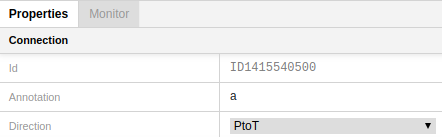
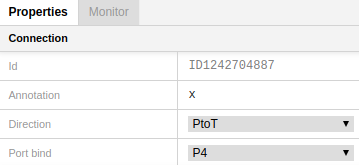
new changes

diff --git a/cpn-ide-docs/docs/editor_view.md b/cpn-ide-docs/docs/editor_view.md
@@ -14,7 +14,7 @@ To load a net, click on **Open project** and select the desired net.
 
 ## Tools
 
-#### Creating objects
+### Creating objects
 One of the instruments for creating net objects is the mouse right-click button menu. You can bring it up by clicking the right mouse button in the editor area.
 
 ![Screenshot](img/mouse-menu.png)
@@ -33,20 +33,24 @@ To create an **arc**:
 - select the arrow icon
 - draw the arc to the object you wish to connect to.
 
-#### Creating new subpage
+### Creating new subpage
 When a CP-net uses a substitution transition the logic that the transition represents must be kept somewhere. It is kept on a page called a **subpage**.
 A page that contains a substitution transition is called a **superpage**. 
 
-To create a **new subpage**, select the corresponding option in the menu
+To create a **new subpage**, select the corresponding option in the right-click menu. A new page is created. It is set as a subpage in the Project Tree panel.
 
 ![Screenshot](img/mouse-menu.png)
 
-The subpage created has a corresponding mark, it looks like this:
+The subpage has a mark, it looks like this:
 
-![Screenshot](img/subpage.png)
+![Screenshot](img/subpage3.png)
 
-#### Moving selected objects to subpage
-If you need to make a group of objects to be the objects of a subpage, use the menu:
+To connect a subpage to other objects of the net, use arcs.
+
+
+#### Creating diagram on subpage
+
+Having made a subpage, create new objects on it. You can also move already existing objects from the superpage to the subpage. To move a group of existing objects, use the menu:
 
 ![Screenshot](img/lasso.png)
 
@@ -54,8 +58,39 @@ If you need to make a group of objects to be the objects of a subpage, use the m
 - Select objects to be replaced to the subpage by drawing the lasso with the pointer
 - Press the icon in the middle ("Move selected objects to subpage")
 
+#### Selecting port type
 
-#### Deleting objects
+When creating a diagram on the subpage, places at the ends of the diagram must be set as **ports**. Ports can be of 3 types: **In** | **Out** | **In/Out**. To set a port:
+
+- click on the place at the left end of the diagram
+- select a port type in the corresponding line of the Properties panel
+
+![Screenshot](img/porttype.png)
+
+Repeat the same with the right end place.
+
+In the picture below the places at the ends of the diagram are **ports**. They can be labeled as **In** / **Out** / **In/Out** according to the selected port type.
+
+![Screenshot](img/ports.png)
+
+A substitution transition having been created, places surrounding the substitution transition become **sockets**. On the picture below sockets are places **CVert** and **P3**.
+
+![Screenshot](img/sockets.png) 
+
+#### Selecting port bind
+
+When creating a subpage, arcs surrounding the substitution transition must get a port bind.
+To get a port bind for an arc:
+- click on the arc
+- select a port bind in the corresponding line of the Properties panel
+
+![Screenshot](img/portbind.png)
+
+**If you don't set port types and port binds for places and arcs surrounding a substitution transition, a mistake occurs**. (see an example in the picture below)
+
+![Screenshot](img/binderror.png)
+
+### Deleting objects
 
 To delete a place, an arc or a transition put the cursor on the object to be removed, bring up the right-click menu and select the bin icon.
 

diff --git a/cpn-ide-docs/docs/properties_panel.md b/cpn-ide-docs/docs/properties_panel.md
@@ -67,11 +67,11 @@ It corresponds to a time inscription given to the transition in the Editor View.
 
 **Priority** must be a non-negative integer expression. The lower the value, the higher the priority. Hence, a transition with priority value 1 has priority over a transition with priority value 2. It corresponds to a priority inscription given to the transition in the Editor View.
 
-**Subpage** allows to select a subpage for the given substitution transition. After selecting a subpage from the list, a blue subpage label with the name of the subpage shows up on the transition.
+**Subpage** allows to select a subpage for the given substitution transition. After selecting a subpage, a blue label with the name of the subpage shows up on the transition. You can move this label to any place of the Editor View.
 
 ![Screenshot](img/subpage-label.png) 
 
-**PortSock** cell shows up when a transition becomes a substitution transition. 
+**PortSock** shows up when a transition becomes a substitution transition. PortSock contains ID of ports and sockets assigned to a substitution transition.
 
 ![Screenshot](img/subpage-properties1.png) 
 
@@ -79,7 +79,7 @@ It corresponds to a time inscription given to the transition in the Editor View.
 ## Arc (connection) properties
 ![Screenshot](img/arc-properties.png) 
 
-To bring up the Properties panel for a particular arc, click on the arc in the Editor View.
+To bring up the Properties Panel for a particular arc, click on the arc in the Editor View.
 
 To edit a property, click on the cell to enter text edit mode. 
 
@@ -95,4 +95,4 @@ Object **ID** can't be edited.
 - TtoP - from transition to place
 - BOTHDIR - both directions
 
-
+**Port bind** property shows up if an arc is connected to a substitution transition. 

diff --git a/cpn-ide-docs/docs/project_tree.md b/cpn-ide-docs/docs/project_tree.md
@@ -78,7 +78,8 @@ To delete a declaration or a declaration block you can use **Shift+Delete**.
 
 To edit a declaration or block, open it by clicking on the triangle next to it, and then click on the declaration or block text. 
 
-Navigating within the elements of Declarations blocks is possible by 
+Navigating within the elements of Declarations blocks is possible by
+ 
 <br> 
 - clicking with the mouse to choose a specific position 
 <br>

diff --git a/cpn-ide-docs/docs/console_panel.md b/cpn-ide-docs/docs/console_panel.md
@@ -1,0 +1,9 @@
+# Console panel
+Console panel consist of 4 tabs:
+- Project console
+- Change history
+- Errors
+
+![Screenshot](img/error-tab.png) 
+
+- Simulation report
